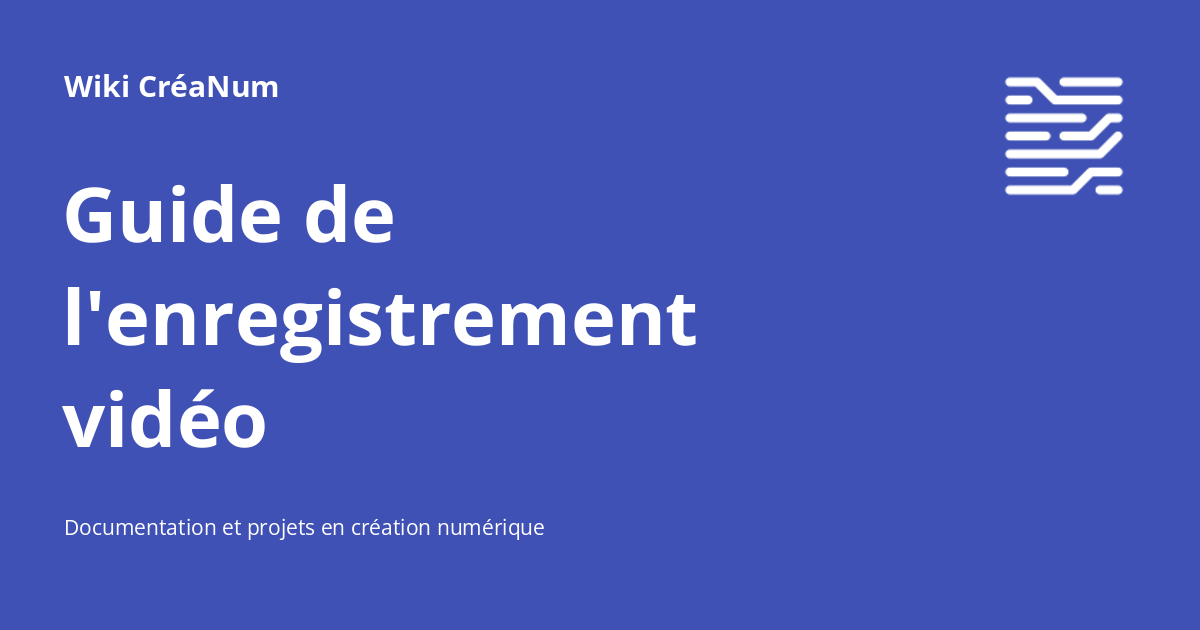
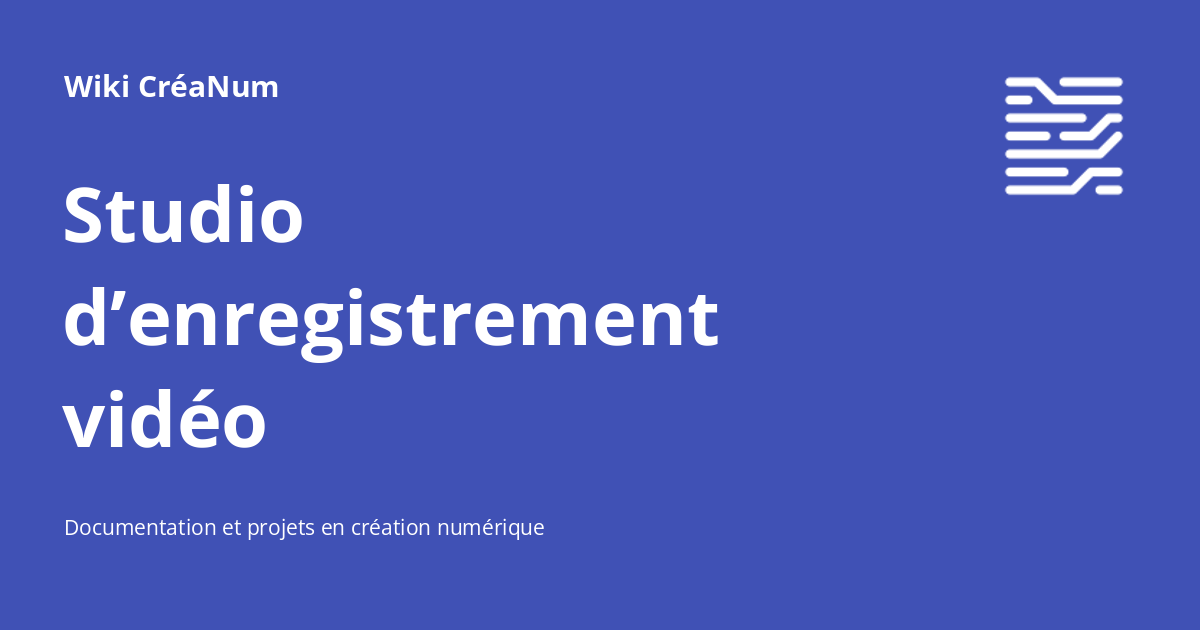
changements mineurs

Changed region(s): [[0.0308, 0.4524, 0.6167, 0.573], [0.0308, 0.2714, 0.3392, 0.3921]]

diff --git a/overrides/main.html b/overrides/main.html
@@ -3,7 +3,7 @@
 {% block announce %}
 <div style="color: white;">
   
-  <a href="https://bib.umontreal.ca/" rel="noopener" style="color: #ffca40;">
+  <a href="https://bib.umontreal.ca/" rel="noopener" style="color: #f7f7f7;">
     <span class="twemoji">
       {% include ".icons/material/keyboard-backspace.svg" %}
     </span>

diff --git a/docs/medias-numeriques/studiovideo.md b/docs/medias-numeriques/studiovideo.md
@@ -1,0 +1,44 @@
+# Studio d'enregistrement vidéo
+Les Studios d’enregistrement vidéo de la Bibliothèque des lettres et sciences humaines (LSH) et de la Bibliothèque Thérèse-Gouin-Décarie (TGD) permet de créer en toute simplicité des vidéos dans un espace spécifiquement aménagé. Seule une clé USB est requise. Idéal pour pratiquer une présentation orale, créer des capsules de formation, ajouter du contenu vidéo dans un travail ou réaliser une présentation par affiche avec incrustation d’images!
+
+Pour en savoir plus, visitez la page dédié aux Studios sur [le site web des bibliothèques](https://bib.umontreal.ca/travailler/espaces/creation-numerique/studio-enregistrement). 
+
+## Présentation standard sur fond noir (bouton source 1)
+
+=== "Studio LSH"
+    ### 1. À votre arrivée
+    * Allumer les lumières à l’entrée du studio.
+    * Le tableau vitré devrait être rangé à votre droite.
+    * L’écran télé devrait être rangé dans le petit local à votre gauche.
+    * Bien étirer le rideau noir au fond du studio.
+    ### 2. Préparer votre enregistrement
+    * Sur le bureau, insérer votre clé USB sur le module noir.
+    * Au bout de 15 secondes, l’éclairage et les équipements audiovisuels s’allument.
+    * On entend quelques bips électroniques.
+    * Le bouton **Source 1** est allumé au mur.
+    * Retourner éteindre les lumières à l’entrée du studio.
+    * Le cadrage de la caméra est déjà présélectionné.
+    * Le seul ajustement nécessaire et autorisé est au niveau du zoom afin de recadrer l’image.
+
+=== "Studio TGD"
+    - Allumer les lumières à l’entrée du studio.
+    - Le tableau vitré devrait être rangé à votre gauche.
+    - L’écran télé devrait être rangé dans le petit local à votre droite.
+    - Bien étirer le rideau noir au fond du studio.
+
+
+IMPORTANT : (Ne pas utiliser un disque externe). Le système ne pourra démarrer.
+
+## Présentation standard avec grand écran (bouton source 1)
+
+=== "Studio LSH"
+    - Allumer les lumières à l’entrée du studio.
+    - Le tableau vitré devrait être rangé à votre droite.
+    - L’écran télé devrait être rangé dans le petit local à votre gauche.
+    - Bien étirer le rideau noir au fond du studio.
+  
+=== "Studio TGD"
+    - Allumer les lumières à l’entrée du studio.
+    - Le tableau vitré devrait être rangé à votre gauche.
+    - L’écran télé devrait être rangé dans le petit local à votre droite.
+    - Bien étirer le rideau noir au fond du studio.

diff --git a/docs/a-propos/accessibilite.md b/docs/a-propos/accessibilite.md
@@ -2,6 +2,7 @@
 hide :
     - toc
     - footer
+    - feedback
 ---
 
 # Accessibilité du Wiki

diff --git a/docs/a-propos/objectifs.md b/docs/a-propos/objectifs.md
@@ -3,6 +3,7 @@ hide:
   - toc
   - footer
   - feedback
+icon : material/target
 ---
 
 <style>

diff --git a/docs/vr/index.md b/docs/vr/index.md
@@ -1,6 +1,7 @@
 ---
 hide :
     - toc
+glightbox: false
 ---
 
 
